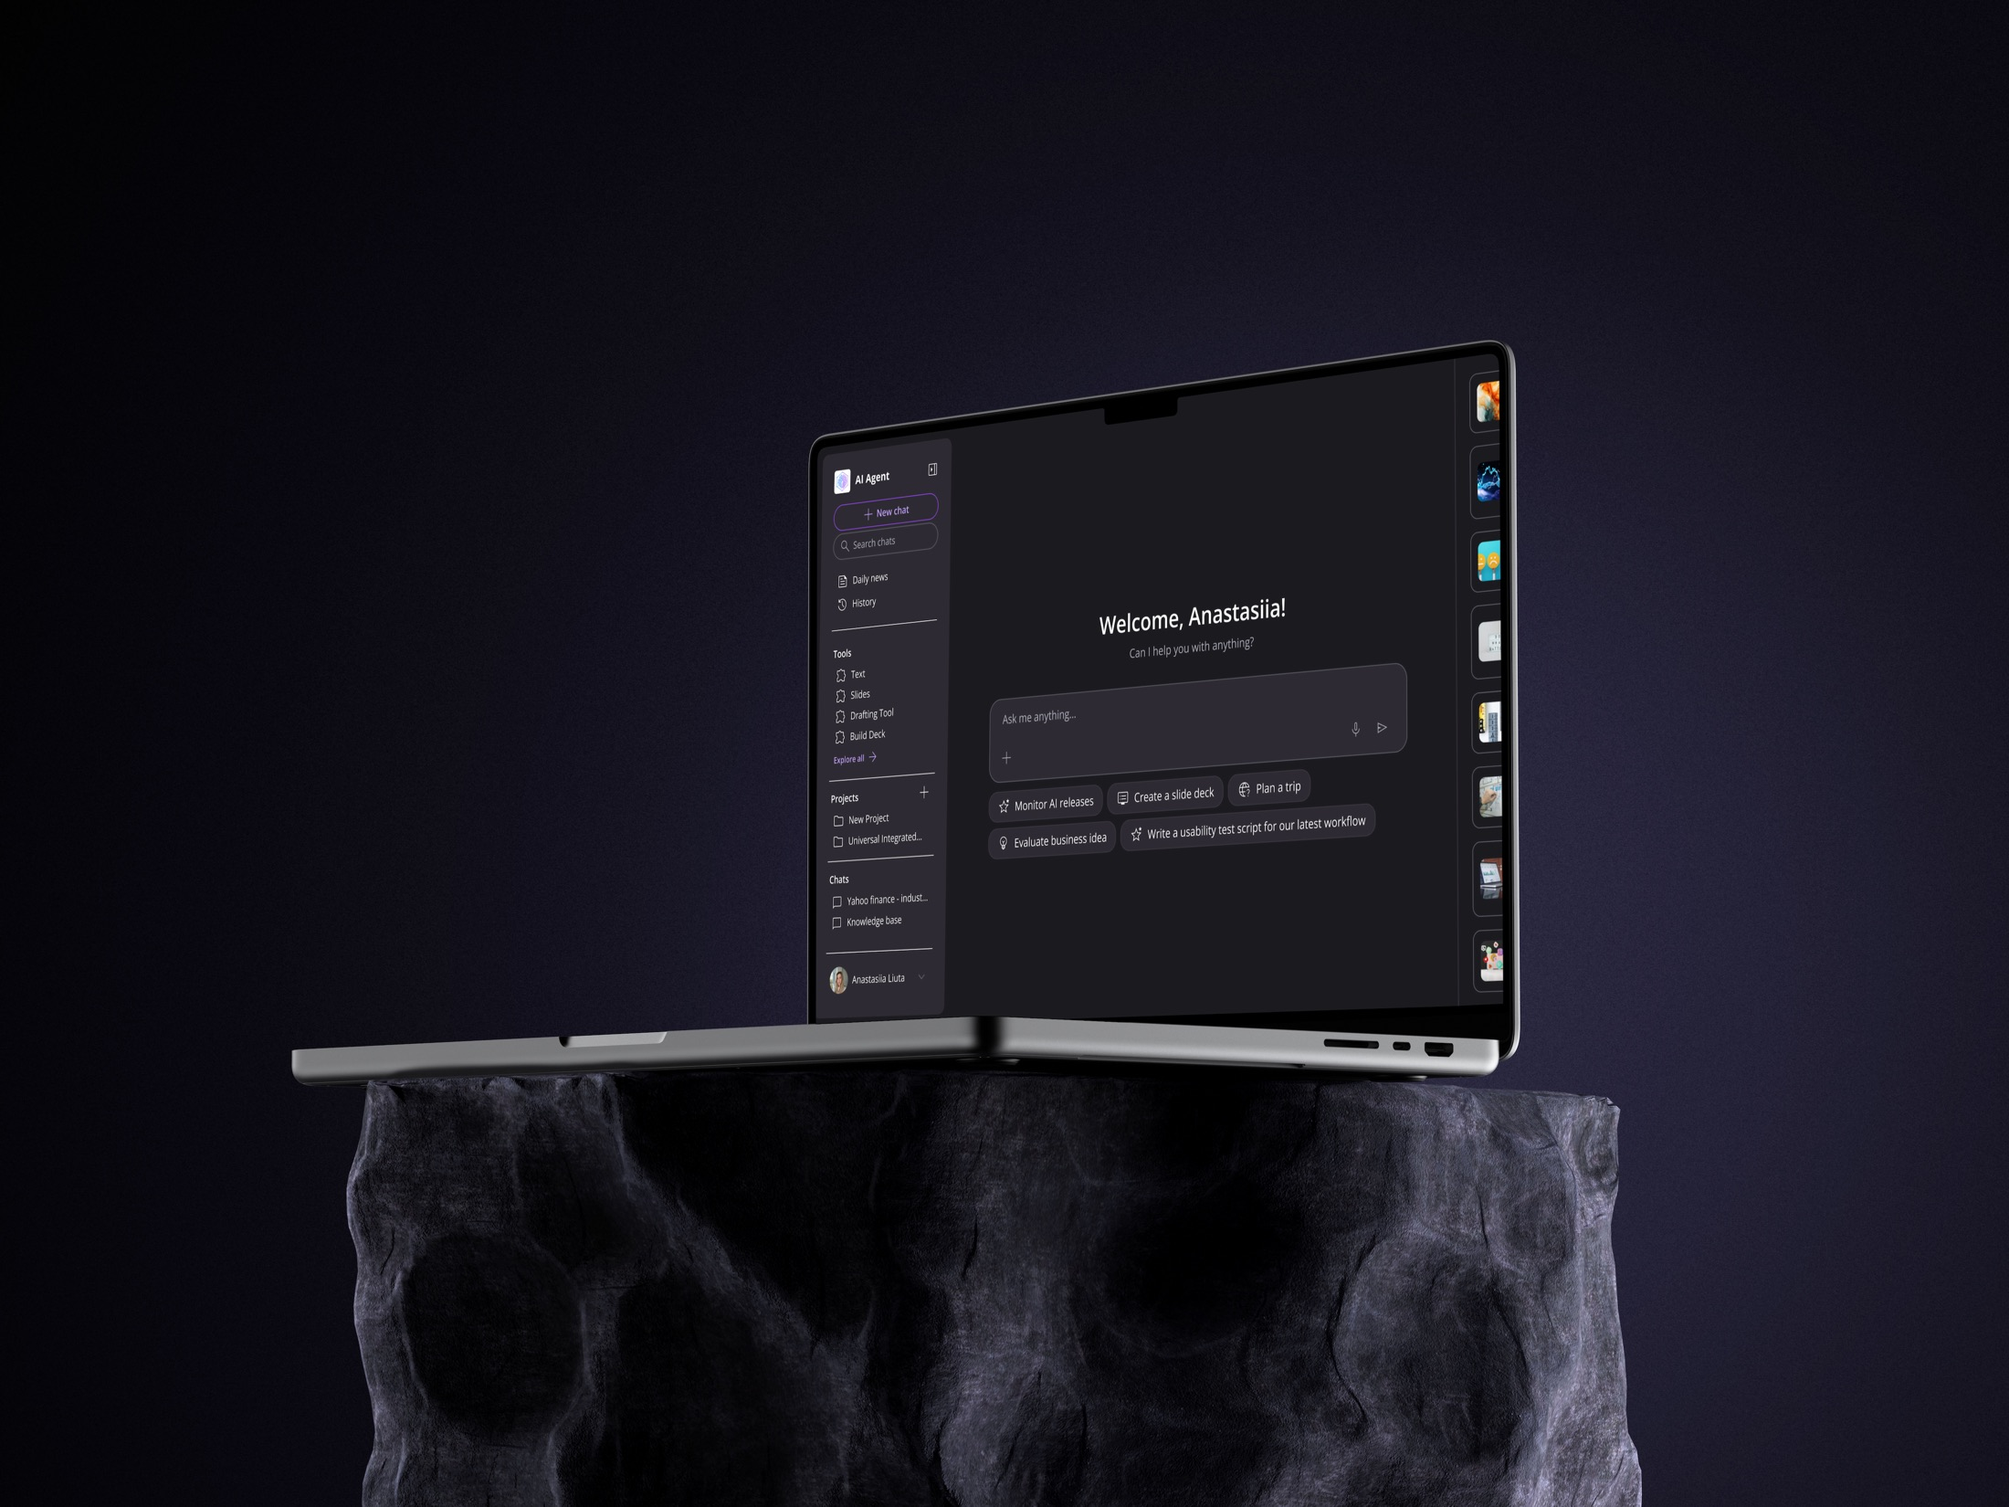
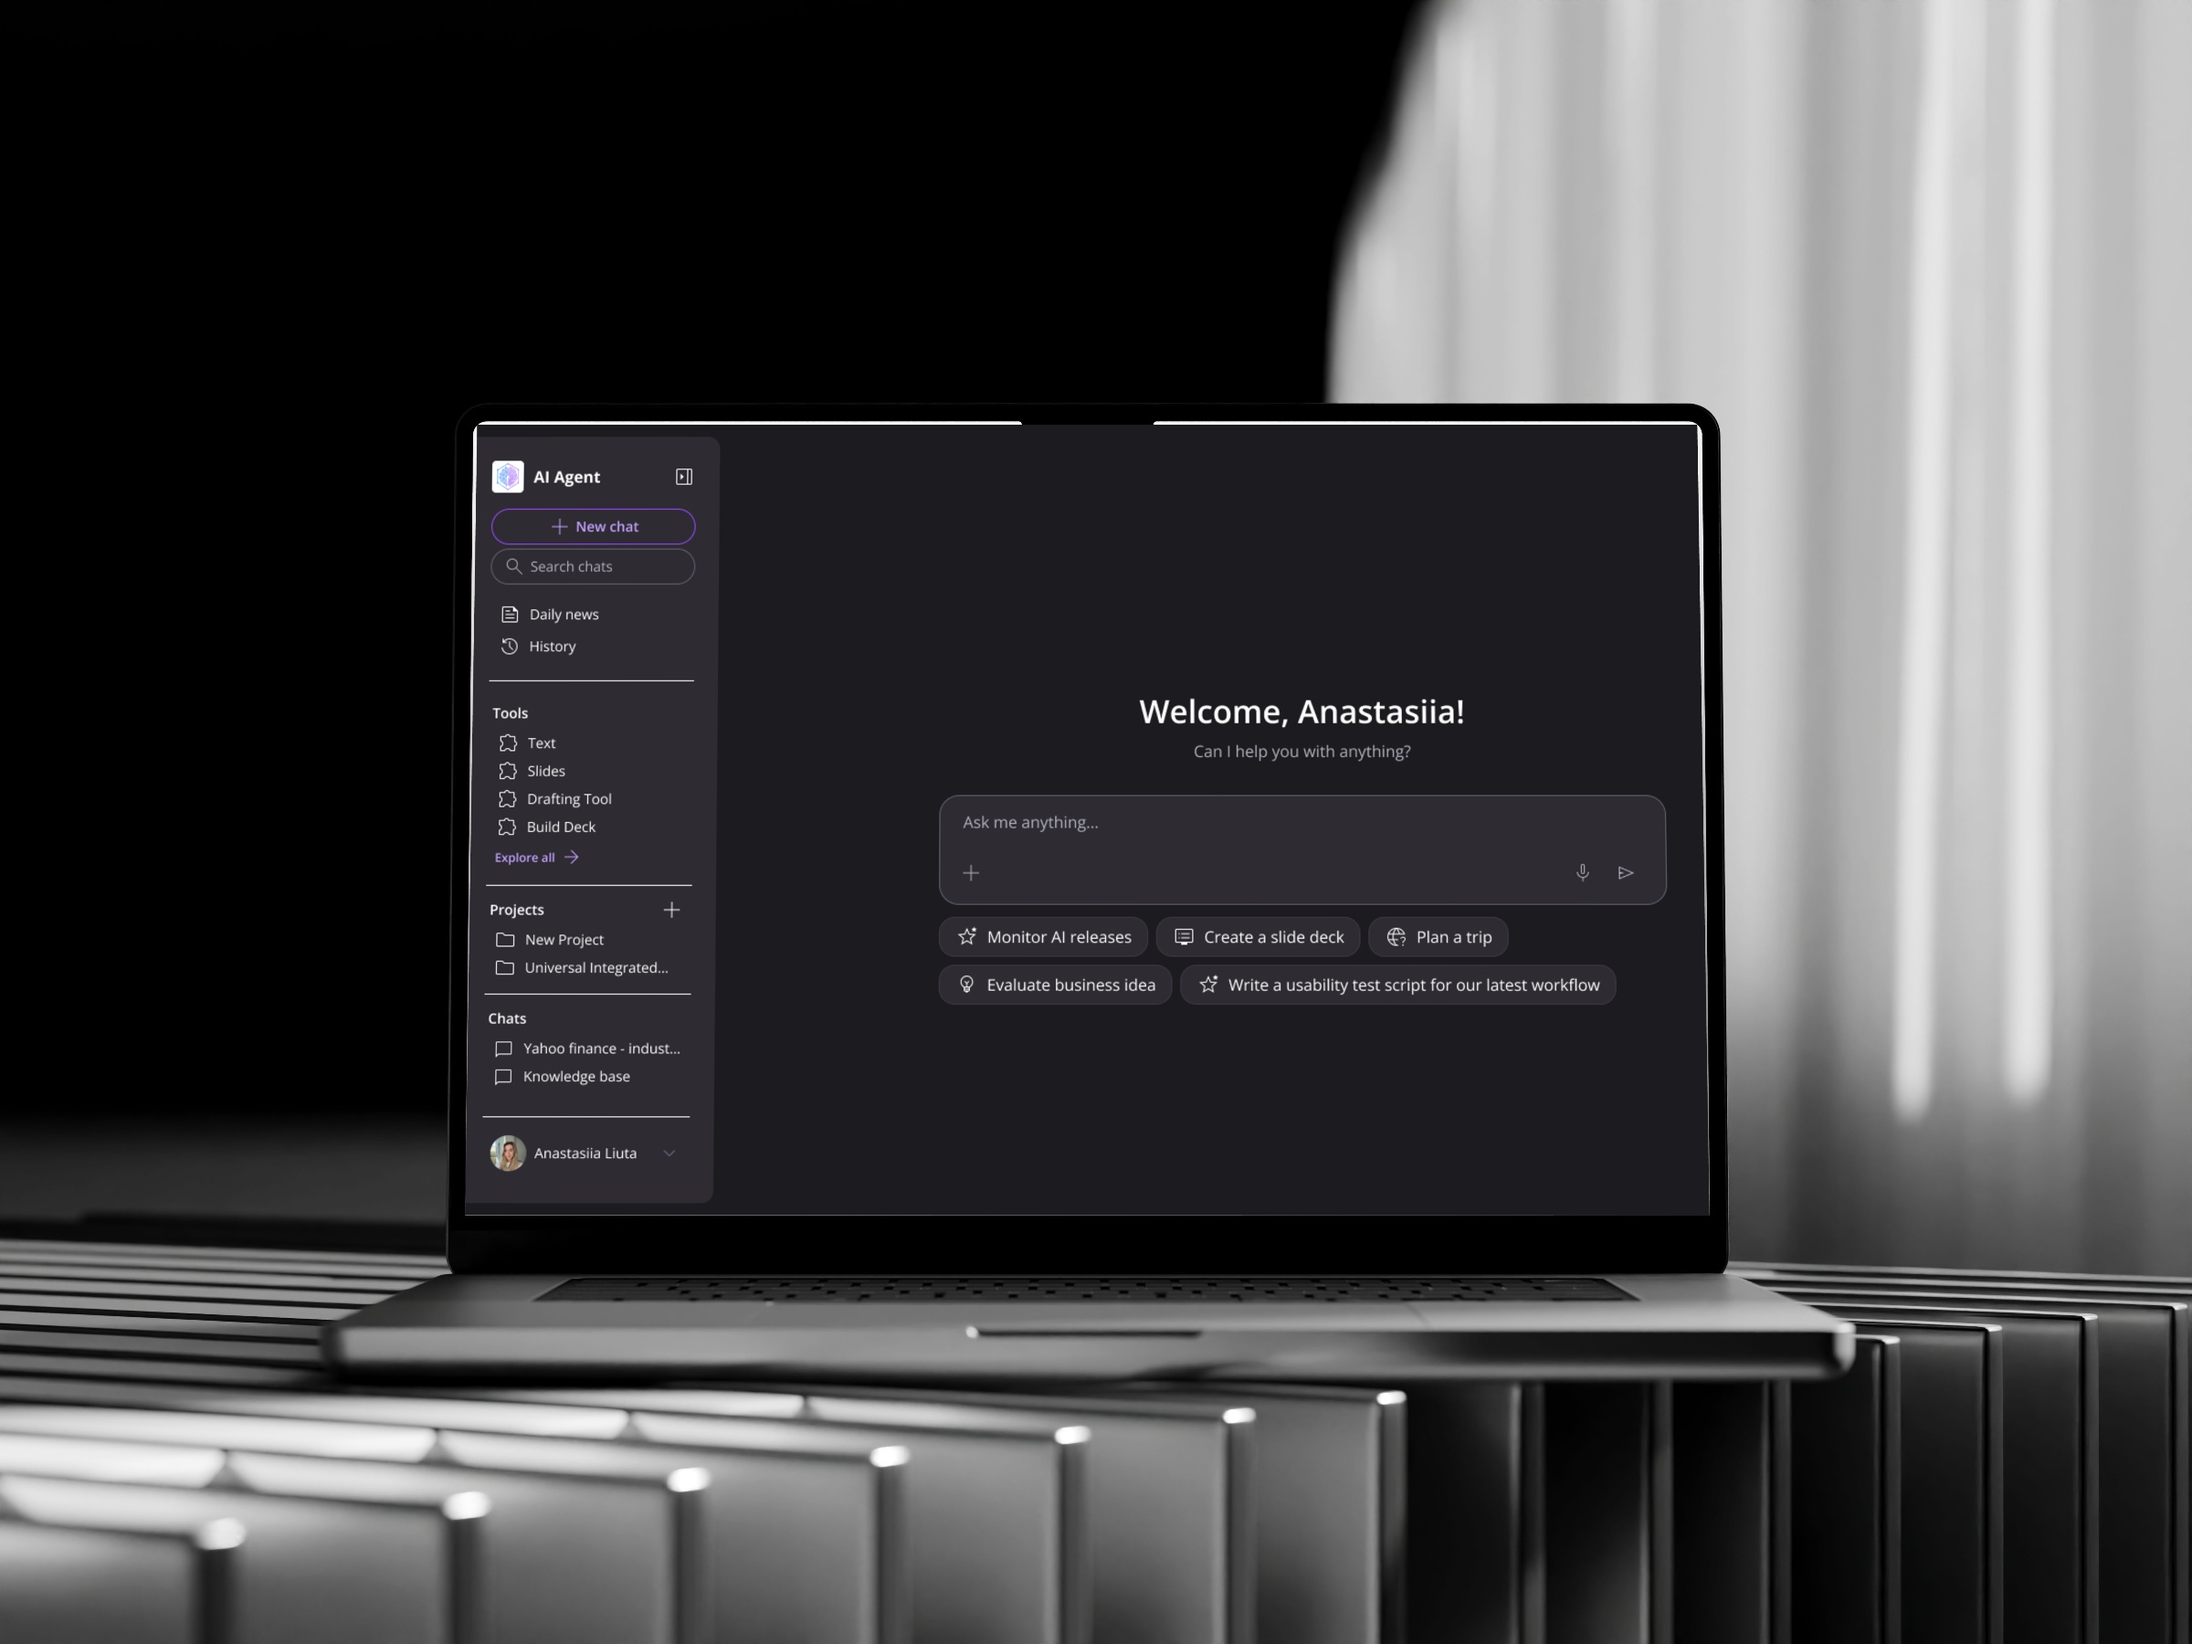
Replace AI Agent card cover with the Dark Room mockup composite
Pulls the AI Agent Welcome screen from the "Sidekick redesign" Figma
file (a different file than the original AI Agent design source) and
composites it into the user's "Dark Room" MacBook Pro 16 mockup photo
(Documents/Mockups for PSD/Free mockups for ps) — same corner-finding
+ aspect-matched crop + mesh-warp pipeline built for the HealthConnect
cover. The screen here is a near-front view (minimal tilt), so a
single flood-filled quad was enough, no occlusion to work around.

Screenshot is cropped left-biased (not centered) since it's wider
than the mockup screen's aspect ratio — keeps the sidebar intact and
crops from the empty dark canvas on the right instead.

diff --git a/index.html b/index.html
@@ -187,7 +187,7 @@
 
         <a href="ai-agent.html" class="case-card case-card--featured">
           <div class="case-card__art case-card__art--1">
-            <img src="assets/ai-agent-hero-mockup.jpg" alt="AI Agent shown in a MacBook mockup — Welcome screen with sidebar navigation and workflow template cards" class="case-card__cover" />
+            <img src="assets/ai-agent-hero-mockup.jpg" alt="AI Agent shown in a MacBook mockup on a dark studio backdrop — Welcome screen with sidebar navigation and quick-prompt cards" class="case-card__cover" />
             <div class="case-card__overlay">
               <div class="case-card__tags">
                 <span>AI Workspace</span><span>Conversational UX</span>
